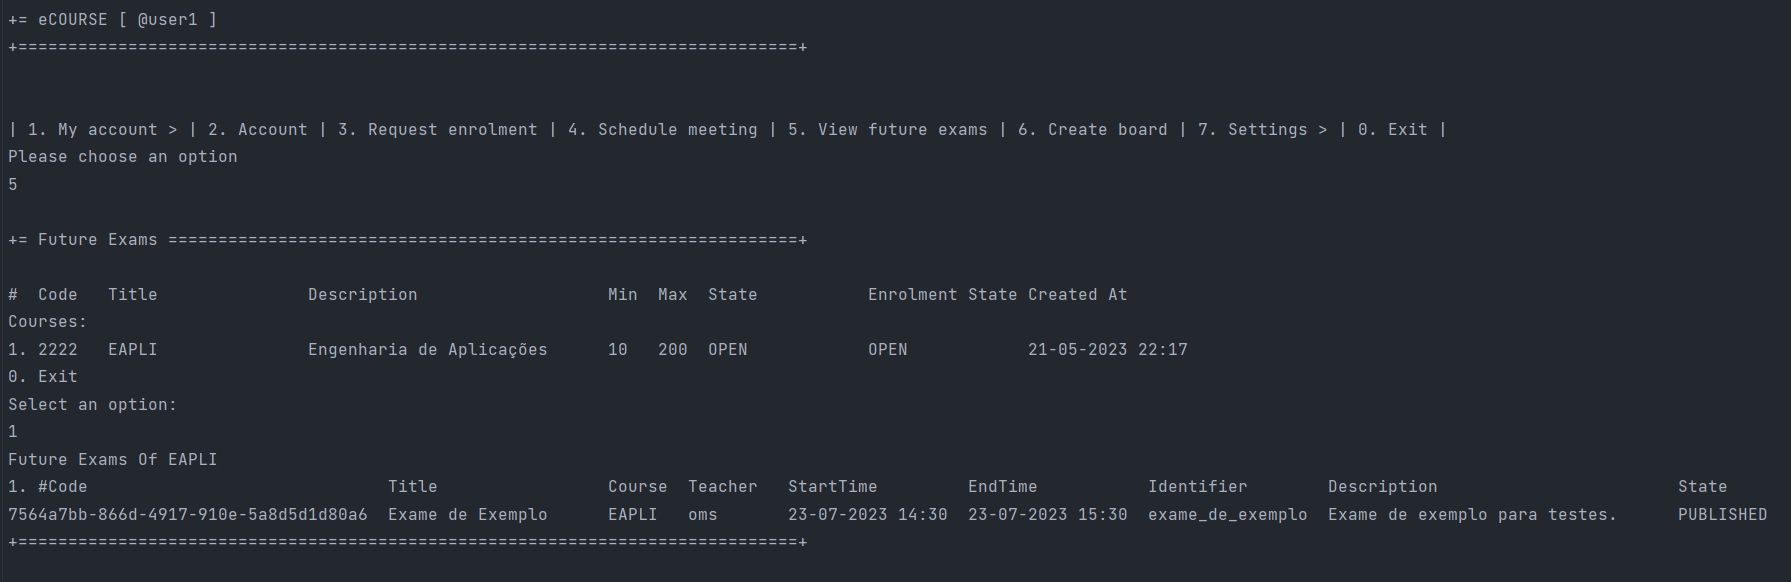
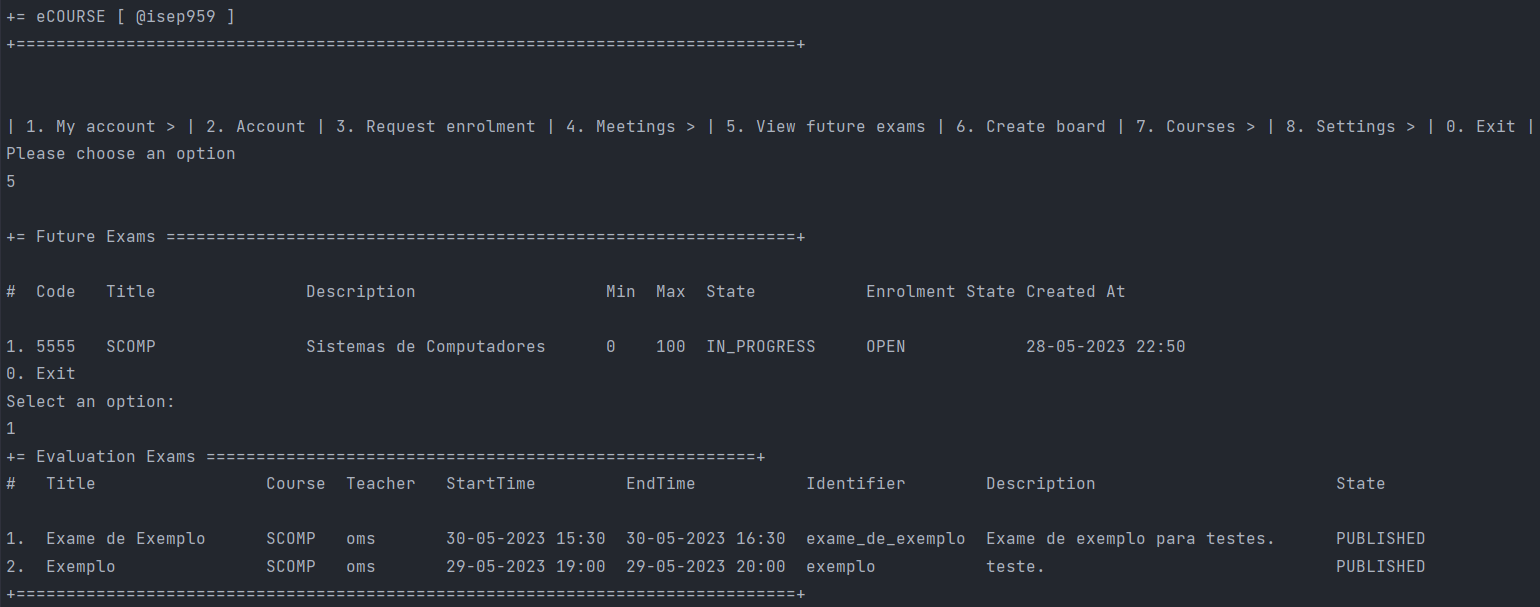
feat: corrected ExamPrinter (#44)

diff --git a/ecourse.app.teacher.console/src/main/java/eapli/ecourse/app/teacher/console/presentation/exams/ListCourseExamsUI.java b/ecourse.app.teacher.console/src/main/java/eapli/ecourse/app/teacher/console/presentation/exams/ListCourseExamsUI.java
@@ -5,7 +5,9 @@ import java.util.List;
 
 import eapli.ecourse.app.common.console.presentation.course.CourseHeader;
 import eapli.ecourse.app.common.console.presentation.course.CoursePrinter;
+import eapli.ecourse.app.common.console.presentation.exam.EvaluationExamHeader;
 import eapli.ecourse.app.common.console.presentation.exam.EvaluationExamPrinter;
+import eapli.ecourse.app.common.console.presentation.exam.FormativeExamHeader;
 import eapli.ecourse.app.common.console.presentation.exam.FormativeExamPrinter;
 import eapli.ecourse.coursemanagement.dto.CourseDTO;
 import eapli.ecourse.exammanagement.application.ListCourseExamsController;
@@ -47,15 +49,21 @@ public class ListCourseExamsUI extends AbstractUI {
       return false;
     }
 
-    ListWidget<EvaluationExamDTO> evaluationExamsList = new ListWidget<>("Evaluation Exams Of " + selected.getTitle(),
-      evaluationExams, new EvaluationExamPrinter());
-    evaluationExamsList.show();
+    if (evaluationExams.iterator().hasNext()) {
+      new EvaluationExamHeader().printHeader();
+      ListWidget<EvaluationExamDTO> evaluationExamsList = new ListWidget<>("", evaluationExams, new EvaluationExamPrinter());
+      evaluationExamsList.show();
+    } else {
+      System.out.println("No evaluation exams in " + selected.getTitle() + "\n");
+    }
 
-
-
-    ListWidget<FormativeExamDTO> formativeExamsList = new ListWidget<>("\nFormative Exams Of " + selected.getTitle(),
-      formativeExams, new FormativeExamPrinter());
-    formativeExamsList.show();
+    if (formativeExams.iterator().hasNext()) {
+      new FormativeExamHeader().printHeader();
+      ListWidget<FormativeExamDTO> formativeExamsList = new ListWidget<>("", formativeExams, new FormativeExamPrinter());
+      formativeExamsList.show();
+    } else {
+      System.out.println("\nNo formative exams in " + selected.getTitle());
+    }
 
     return true;
   }

diff --git a/ecourse.app.student.console/src/main/java/eapli/ecourse/app/student/console/presentation/ListFutureExamsUI.java b/ecourse.app.student.console/src/main/java/eapli/ecourse/app/student/console/presentation/ListFutureExamsUI.java
@@ -2,6 +2,7 @@ package eapli.ecourse.app.student.console.presentation;
 
 import eapli.ecourse.app.common.console.presentation.course.CourseHeader;
 import eapli.ecourse.app.common.console.presentation.course.CoursePrinter;
+import eapli.ecourse.app.common.console.presentation.exam.EvaluationExamHeader;
 import eapli.ecourse.app.common.console.presentation.exam.EvaluationExamPrinter;
 import eapli.ecourse.coursemanagement.dto.CourseDTO;
 import eapli.ecourse.exammanagement.application.ListFutureExamsController;
@@ -28,20 +29,22 @@ public class ListFutureExamsUI extends AbstractUI {
     }
 
     new CourseHeader().printHeader();
-    final SelectWidget<CourseDTO> selector = new SelectWidget<>("Courses:", studentCourses, new CoursePrinter());
+    final SelectWidget<CourseDTO> selector = new SelectWidget<>("", studentCourses, new CoursePrinter());
     selector.show();
     final CourseDTO selected = selector.selectedElement();
     if (selected == null)
       return false;
 
+
     Iterable<EvaluationExamDTO> courseFutureExams = ctrl.futureExams(selected);
     if (!courseFutureExams.iterator().hasNext()) {
-      System.out.println("\nThere are no future exams");
+      System.out.println("\nThere are no future exams in " + selected.getTitle());
       return false;
     }
 
-    ListWidget<EvaluationExamDTO> list = new ListWidget<>("Future Exams Of " + selected.getTitle(), courseFutureExams,
-        new EvaluationExamPrinter());
+
+    new EvaluationExamHeader().printHeader();
+    ListWidget<EvaluationExamDTO> list = new ListWidget<>("", courseFutureExams, new EvaluationExamPrinter());
     list.show();
 
     return false;

diff --git a/ecourse.app.common.console/src/main/java/eapli/ecourse/app/common/console/presentation/exam/EvaluationExamHeader.java b/ecourse.app.common.console/src/main/java/eapli/ecourse/app/common/console/presentation/exam/EvaluationExamHeader.java
@@ -2,9 +2,9 @@ package eapli.ecourse.app.common.console.presentation.exam;
 
 public class EvaluationExamHeader {
   public String header() {
-    return String.format("#%-33s %-22s%-8s%-10s%-18s%-18s%-18s%-35s%-10s", "Code", "Title", "Course", "Teacher", "StartTime",
-      "EndTime",
-      "Identifier", "Description", "State");
+    return String.format("+= Evaluation Exams =======================================================+\n"
+        + "#   %-22s%-8s%-10s%-18s%-18s%-18s%-35s%-10s", "Title", "Course", "Teacher", "StartTime",
+      "EndTime", "Identifier", "Description", "State");
   }
 
   public void printHeader() {

diff --git a/ecourse.app.common.console/src/main/java/eapli/ecourse/app/common/console/presentation/exam/EvaluationExamPrinter.java b/ecourse.app.common.console/src/main/java/eapli/ecourse/app/common/console/presentation/exam/EvaluationExamPrinter.java
@@ -9,10 +9,8 @@ public class EvaluationExamPrinter implements Visitor<EvaluationExamDTO> {
 
   @Override
   public void visit(final EvaluationExamDTO visitee) {
-    new EvaluationExamHeader().printHeader();
 
-
-    System.out.printf("%-37s %-22s%-8s%-10s%-18s%-18s%-18s%-35s%-10s", visitee.getCode(), visitee.getTitle(),
+    System.out.printf(" %-22s%-8s%-10s%-18s%-18s%-18s%-35s%-10s", visitee.getTitle(),
       visitee.getCourse().title(), visitee.getTeacher().acronym(), visitee.getStartTime(), visitee.getEndTime(), visitee.getIdentifier(),
       visitee.getDescription(), visitee.getState());
   }

diff --git a/ecourse.app.common.console/src/main/java/eapli/ecourse/app/common/console/presentation/exam/FormativeExamPrinter.java b/ecourse.app.common.console/src/main/java/eapli/ecourse/app/common/console/presentation/exam/FormativeExamPrinter.java
@@ -5,9 +5,8 @@ import eapli.framework.visitor.Visitor;
 public class FormativeExamPrinter implements Visitor<FormativeExamDTO> {
   @Override
   public void visit(final FormativeExamDTO visitee) {
-    new FormativeExamHeader().printHeader();
 
-    System.out.printf("%-37s %-22s%-8s%-10s%-18s%-35s%-8s", visitee.getCode(), visitee.getTitle(),
+    System.out.printf(" %-22s%-8s%-10s%-18s%-35s%-10s",  visitee.getTitle(),
       visitee.getCourse().title(), visitee.getTeacher().acronym(), visitee.getIdentifier(),
       visitee.getDescription(), visitee.getState());
   }

diff --git a/ecourse.app.common.console/src/main/java/eapli/ecourse/app/common/console/presentation/exam/FormativeExamHeader.java b/ecourse.app.common.console/src/main/java/eapli/ecourse/app/common/console/presentation/exam/FormativeExamHeader.java
@@ -3,8 +3,8 @@ package eapli.ecourse.app.common.console.presentation.exam;
 public class FormativeExamHeader {
 
   public String header() {
-    return String.format("#%-33s %-22s%-8s%-10s%-18s%-35s%-10s", "Code", "Title", "Course", "Teacher",
-      "Identifier", "Description", "State");
+    return String.format("+= Formative Exams =======================================================+\n"+
+      "#   %-22s%-8s%-10s%-18s%-35s%-10s",  "Title", "Course", "Teacher", "Identifier", "Description", "State");
   }
 
   public void printHeader() {
